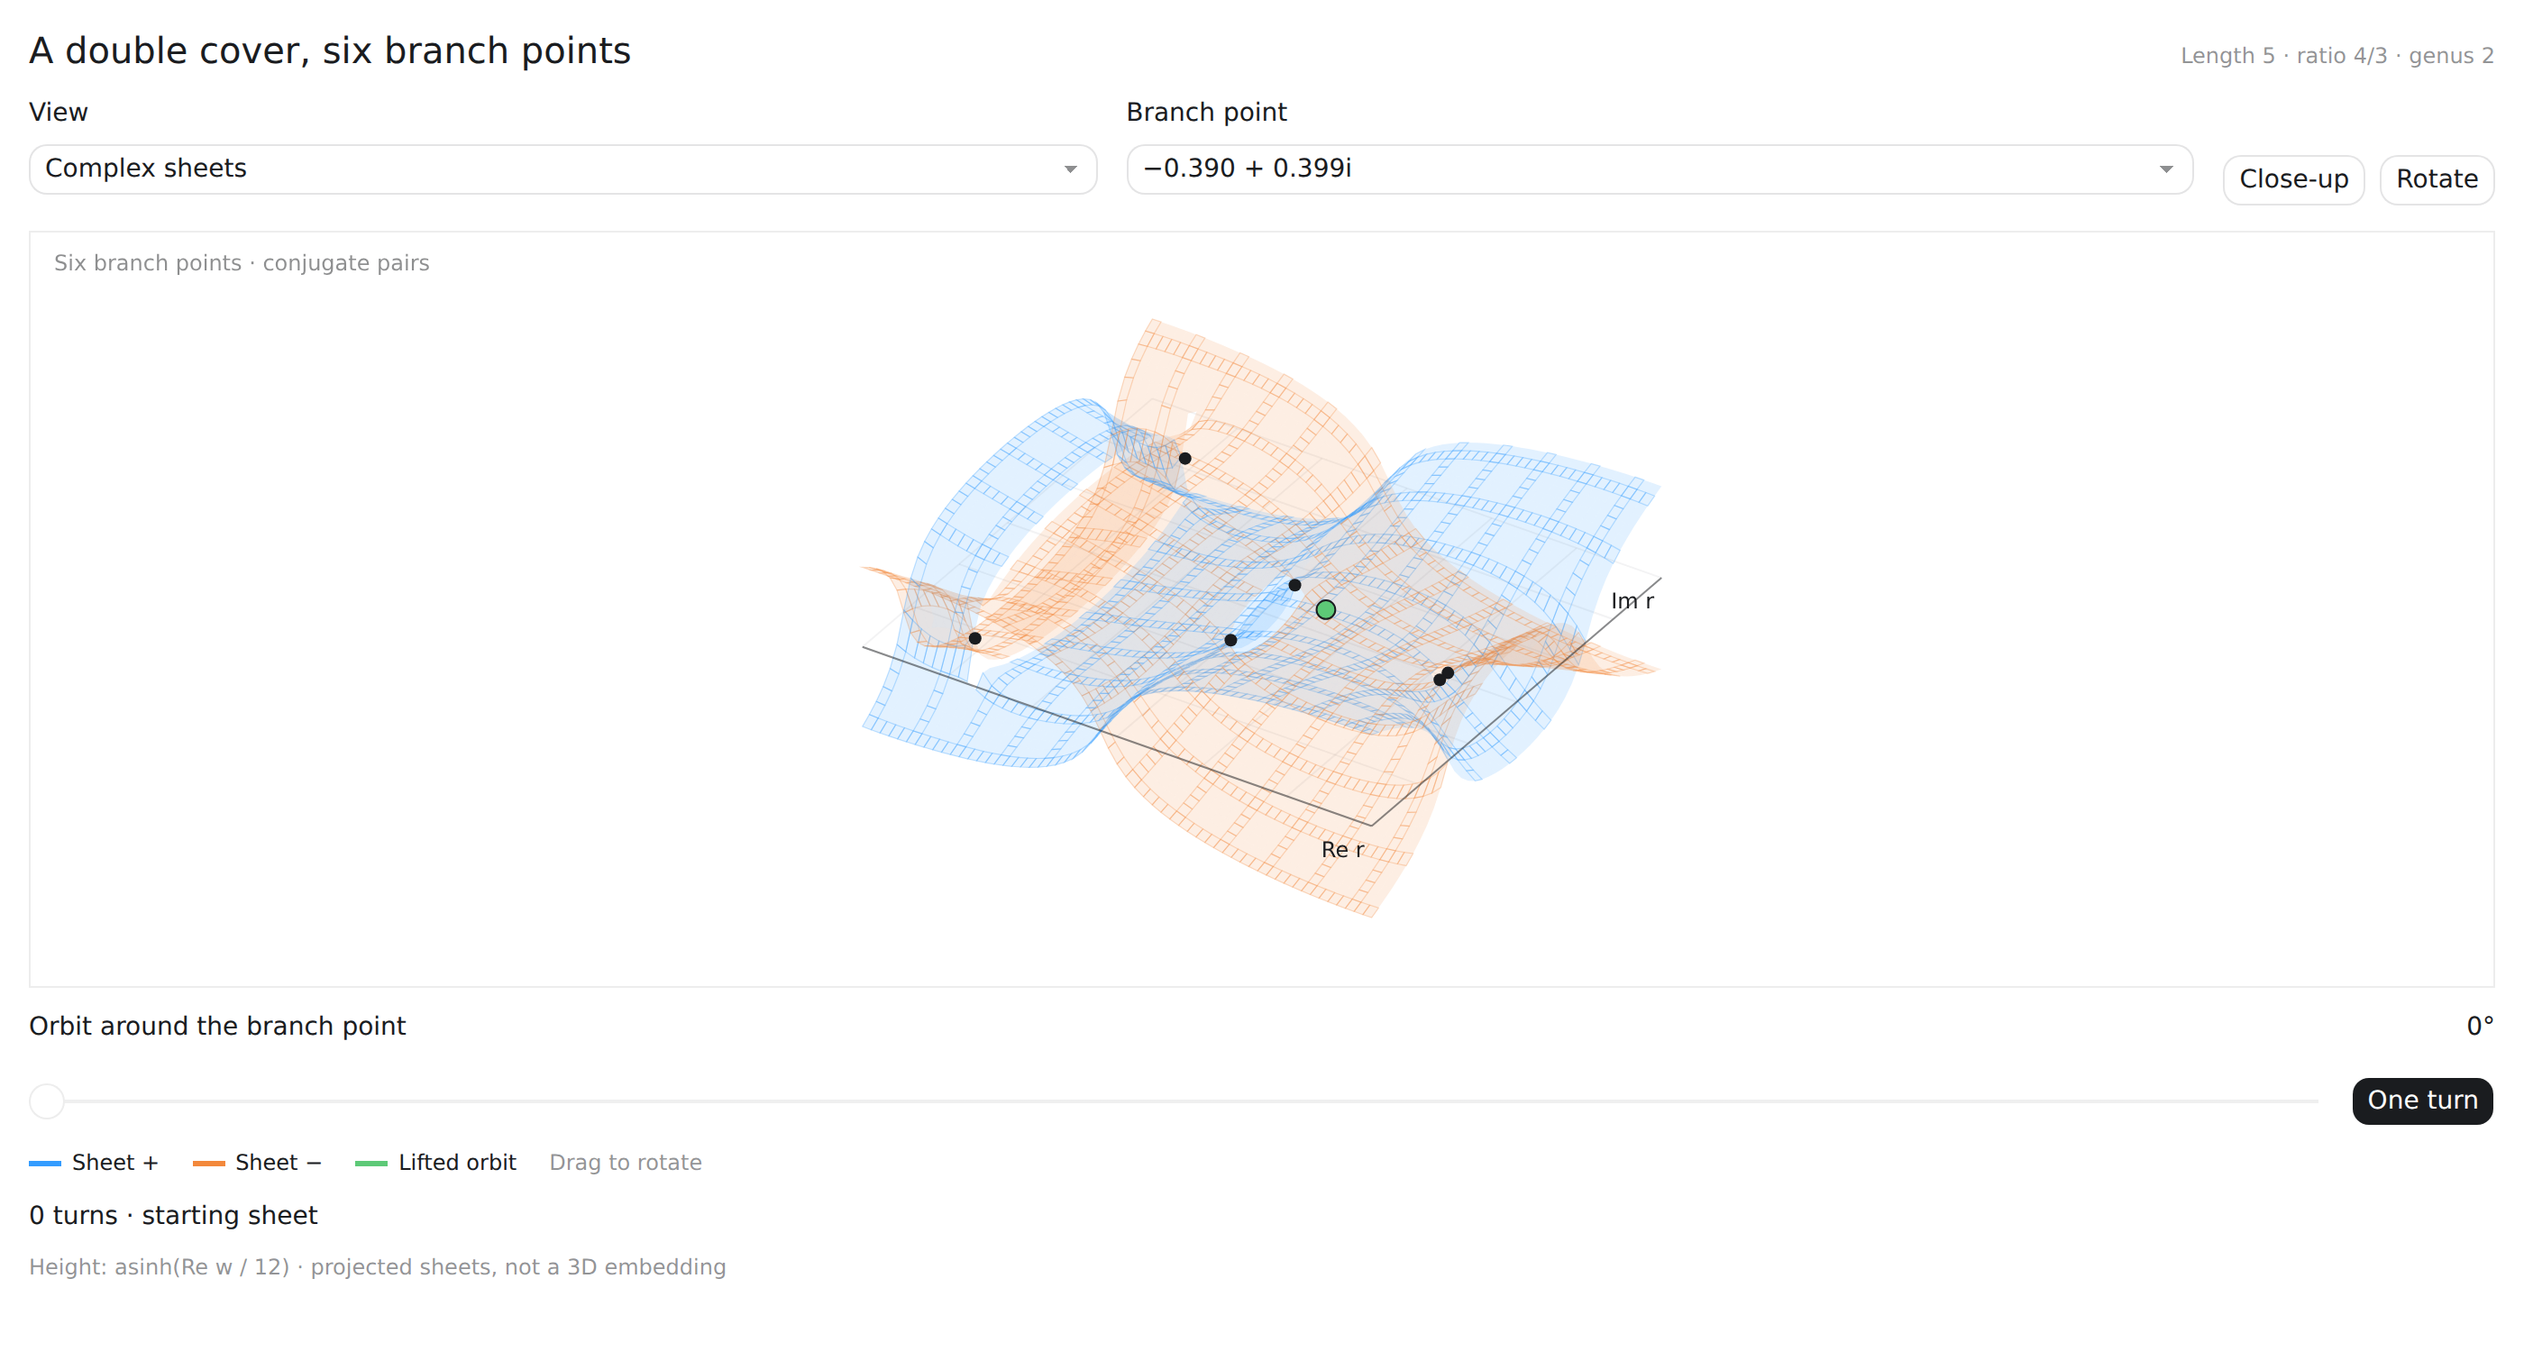
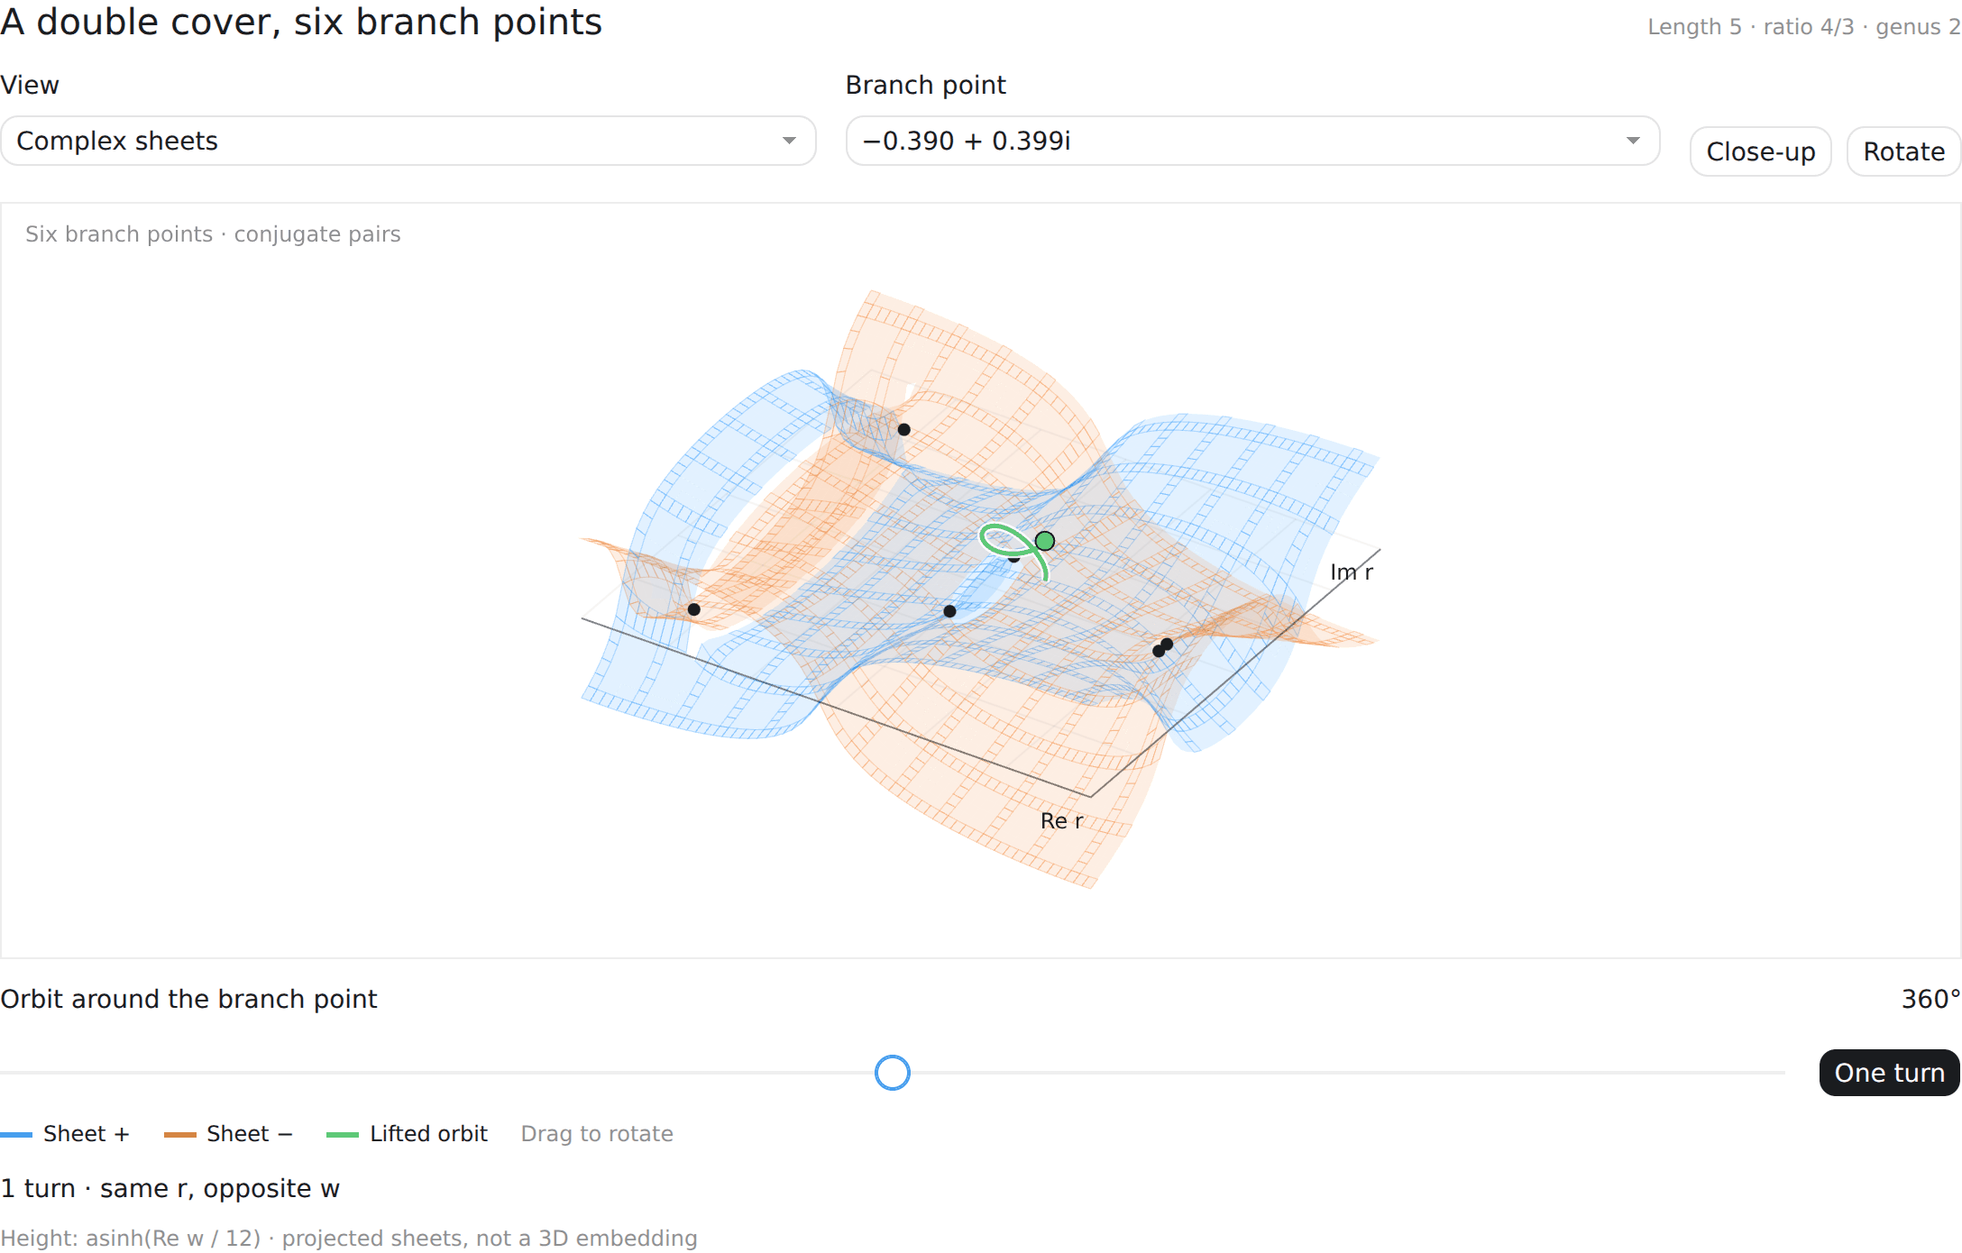
Illustrate all eight geometry views and restore real SVG plots

diff --git a/index.html b/index.html
@@ -1715,15 +1715,15 @@ html&gt;body{padding:0}&lt;/style&gt;
       const lcm=t=&gt;{let k=1n;for(let i=0n;i&lt;5n;i++)k=k*(t+i)/gcd(k,t+i);return k},la=lcm(a),lb=lcm(b);
       return {x2,valid:true,a:Number(a),b:Number(b),lcm:String(la),same:la===lb,disjoint:b-a&gt;=5n};
     }
-    function drawIntervals(d){const s=$(&#x27;ec-intervals&#x27;);s.hidden=!d.valid;if(!d.valid)return;const width=s.clientWidth,h=122,left=64,right=20,min=d.a,max=d.b+4,step=(width-left-right)/(max-min+1),x=v=&gt;left+(v-min)*step;s.setAttribute(&#x27;viewBox&#x27;,`0 0 ${width} ${h}`);s.replaceChildren();
+    function drawIntervals(d){const s=$(&#x27;ec-intervals&#x27;);s.toggleAttribute(&#x27;hidden&#x27;,!d.valid);if(!d.valid)return;const width=s.clientWidth,h=122,left=64,right=20,min=d.a,max=d.b+4,step=(width-left-right)/(max-min+1),x=v=&gt;left+(v-min)*step;s.setAttribute(&#x27;viewBox&#x27;,`0 0 ${width} ${h}`);s.replaceChildren();
       for(const [k,start]of [d.a,d.b].entries()){const yy=20+k*48;s.append(el(&#x27;text&#x27;,{x:left-12,y:yy+22,&#x27;text-anchor&#x27;:&#x27;end&#x27;},k?&#x27;B&#x27;:&#x27;A&#x27;));for(let i=0;i&lt;5;i++){const v=start+i;s.append(el(&#x27;rect&#x27;,{x:x(v)+2,y:yy,width:step-4,height:34,rx:4,fill:k?&#x27;var(--viz-series-2)&#x27;:&#x27;var(--viz-series-1)&#x27;,opacity:.20}),el(&#x27;text&#x27;,{x:x(v)+step/2,y:yy+22,&#x27;text-anchor&#x27;:&#x27;middle&#x27;},String(v)))}}
     }
-    function detail(){if(![&#x27;complex&#x27;,&#x27;real&#x27;,&#x27;lift&#x27;].includes(view)){root.geometryViews?.render();return}const p=points[Number($(&#x27;ec-point&#x27;).value)],sign=Number($(&#x27;ec-sign&#x27;).value);if(view===&#x27;complex&#x27;){const k=angle/360;$(&#x27;ec-detail&#x27;).textContent=angle===360?&#x27;1 turn · same r, opposite w&#x27;:angle===720?&#x27;2 turns · back to the starting point&#x27;:`${k.toFixed(angle%360===0?0:2)} turns · ${angle===0?&#x27;starting sheet&#x27;:&#x27;continuous lift&#x27;}`;$(&#x27;ec-note&#x27;).textContent=&#x27;Height: asinh(Re w / 12) · projected sheets, not a 3D embedding&#x27;;$(&#x27;ec-intervals&#x27;).hidden=true;return}
-      if(view===&#x27;real&#x27;){$(&#x27;ec-detail&#x27;).textContent=`r = ${p[0]} · w = ${sign&lt;0?&#x27;−&#x27;:&#x27;&#x27;}${p[1]}`;$(&#x27;ec-note&#x27;).textContent=&#x27;Known rational points shown; completeness is not proved.&#x27;;$(&#x27;ec-intervals&#x27;).hidden=true;return}
+    function detail(){if(![&#x27;complex&#x27;,&#x27;real&#x27;,&#x27;lift&#x27;].includes(view)){root.geometryViews?.render();return}const p=points[Number($(&#x27;ec-point&#x27;).value)],sign=Number($(&#x27;ec-sign&#x27;).value);if(view===&#x27;complex&#x27;){const k=angle/360;$(&#x27;ec-detail&#x27;).textContent=angle===360?&#x27;1 turn · same r, opposite w&#x27;:angle===720?&#x27;2 turns · back to the starting point&#x27;:`${k.toFixed(angle%360===0?0:2)} turns · ${angle===0?&#x27;starting sheet&#x27;:&#x27;continuous lift&#x27;}`;$(&#x27;ec-note&#x27;).textContent=&#x27;Height: asinh(Re w / 12) · projected sheets, not a 3D embedding&#x27;;$(&#x27;ec-intervals&#x27;).setAttribute(&#x27;hidden&#x27;,&#x27;&#x27;);return}
+      if(view===&#x27;real&#x27;){$(&#x27;ec-detail&#x27;).textContent=`r = ${p[0]} · w = ${sign&lt;0?&#x27;−&#x27;:&#x27;&#x27;}${p[1]}`;$(&#x27;ec-note&#x27;).textContent=&#x27;Known rational points shown; completeness is not proved.&#x27;;$(&#x27;ec-intervals&#x27;).setAttribute(&#x27;hidden&#x27;,&#x27;&#x27;);return}
       const d=liftPoint(Number($(&#x27;ec-point&#x27;).value),sign);$(&#x27;ec-detail&#x27;).textContent=d.valid?`Starts (${d.a}, ${d.b}) · ${d.same?&#x27;same LCM = &#x27;+Number(d.lcm).toLocaleString(&#x27;en-GB&#x27;):&#x27;different LCMs&#x27;}`:`x² = ${qs(d.x2)} · ${d.reason}`;
       $(&#x27;ec-note&#x27;).textContent=d.valid?(d.disjoint?&#x27;Disjoint intervals&#x27;:&#x27;Overlap: &#x27;+Math.max(0,5-(d.b-d.a))+&#x27; shared integers · not a counterexample&#x27;):&#x27;A rational point on this quotient need not lift to an admissible interval pair.&#x27;;drawIntervals(d);
     }
-    function setView(){cancelAnimationFrame(anim);view=$(&#x27;ec-view&#x27;).value;const extra=![&#x27;complex&#x27;,&#x27;real&#x27;,&#x27;lift&#x27;].includes(view);$(&#x27;ec-extra&#x27;).hidden=!extra;root.querySelector(&#x27;.ec-stage&#x27;).hidden=extra;$(&#x27;ec-focus&#x27;).hidden=extra;$(&#x27;ec-intervals&#x27;).hidden=true;canvas.hidden=view!==&#x27;complex&#x27;;svg.hidden=view===&#x27;complex&#x27;;$(&#x27;ec-branch-field&#x27;).hidden=view!==&#x27;complex&#x27;;$(&#x27;ec-point-field&#x27;).hidden=![&#x27;real&#x27;,&#x27;lift&#x27;,&#x27;cover&#x27;,&#x27;region&#x27;].includes(view);$(&#x27;ec-sign-field&#x27;).hidden=![&#x27;real&#x27;,&#x27;lift&#x27;,&#x27;cover&#x27;,&#x27;region&#x27;].includes(view);$(&#x27;ec-complex-controls&#x27;).hidden=view!==&#x27;complex&#x27;;$(&#x27;ec-rotate&#x27;).hidden=view!==&#x27;complex&#x27;;$(&#x27;ec-tip&#x27;).hidden=true;resize();detail()}
+    function setView(){cancelAnimationFrame(anim);view=$(&#x27;ec-view&#x27;).value;const extra=![&#x27;complex&#x27;,&#x27;real&#x27;,&#x27;lift&#x27;].includes(view);$(&#x27;ec-extra&#x27;).hidden=!extra;root.querySelector(&#x27;.ec-stage&#x27;).hidden=extra;$(&#x27;ec-focus&#x27;).hidden=extra;$(&#x27;ec-intervals&#x27;).setAttribute(&#x27;hidden&#x27;,&#x27;&#x27;);canvas.hidden=view!==&#x27;complex&#x27;;svg.toggleAttribute(&#x27;hidden&#x27;,view===&#x27;complex&#x27;);$(&#x27;ec-branch-field&#x27;).hidden=view!==&#x27;complex&#x27;;$(&#x27;ec-point-field&#x27;).hidden=![&#x27;real&#x27;,&#x27;lift&#x27;,&#x27;cover&#x27;,&#x27;region&#x27;].includes(view);$(&#x27;ec-sign-field&#x27;).hidden=![&#x27;real&#x27;,&#x27;lift&#x27;,&#x27;cover&#x27;,&#x27;region&#x27;].includes(view);$(&#x27;ec-complex-controls&#x27;).hidden=view!==&#x27;complex&#x27;;$(&#x27;ec-rotate&#x27;).hidden=view!==&#x27;complex&#x27;;$(&#x27;ec-tip&#x27;).hidden=true;resize();detail()}
     function resize(){palette();W=canvas.clientWidth||root.clientWidth;H=canvas.clientHeight||420;const dpr=Math.min(devicePixelRatio||1,2);canvas.width=W*dpr;canvas.height=H*dpr;ctx.setTransform(dpr,0,0,dpr,0,0);if(view===&#x27;complex&#x27;)drawComplex();else if([&#x27;real&#x27;,&#x27;lift&#x27;].includes(view))drawReal();else root.geometryViews?.render();if(view===&#x27;lift&#x27;)detail()}
     $(&#x27;ec-view&#x27;).addEventListener(&#x27;change&#x27;,setView);
     $(&#x27;ec-branch&#x27;).addEventListener(&#x27;change&#x27;,()=&gt;{which=Number($(&#x27;ec-branch&#x27;).value);angle=0;$(&#x27;ec-phase&#x27;).value=0;$(&#x27;ec-angle&#x27;).textContent=&#x27;0°&#x27;;buildOrbit();buildMesh();drawComplex();detail()});

diff --git a/README.md b/README.md
@@ -1,56 +1,142 @@
 # Erdős 677 Curve Visualisation
 
-Interactive visualisation of the genus-2 curve arising in the investigation of **Erdős Problem 677**, focusing on the length-5, ratio \(4/3\) case.
+Explore the genus-two curve behind the **length-five, product-ratio $4/3$ case** of the repeated-LCM interval problem. Eight interactive views connect its complex sheets, compact geometry and rational points to candidate integer intervals.
 
-### [Open the interactive visualisation →](https://kddavis91.github.io/erdos677-curve-visualisation/)
+**[Open the interactive visualisation →](https://kddavis91.github.io/erdos677-curve-visualisation/)**
 
-<p align="center">
-  <img src="assets/complex-sheets.png" alt="Complex double-cover visualisation" width="100%">
-</p>
+![Complex double cover after one turn around a branch point](assets/complex-sheets.png)
 
-## What it shows
+*One turn returns to the same base coordinate on the opposite sheet. A second turn closes the lifted path.*
 
-The visualisation provides three related views of the curve:
+## Choose a view
 
-- **Complex sheets** — a rotatable projection of the two-sheeted cover, showing the six branch points and the behaviour of a lifted orbit around a selected branch point.
-- **Real curve** — the real locus of the genus-2 curve together with the known rational points used in the investigation.
-- **Lift to intervals** — maps a selected rational point back to the corresponding pair of length-5 integer intervals, making the connection to the original Erdős problem explicit.
+| View | Explore |
+| --- | --- |
+| [Complex sheets](#complex-sheets) | Six branch points, a rotatable projection and a continuously lifted orbit. |
+| [Real curve](#real-curve) | The real locus and the supplied rational points. |
+| [Lift to intervals](#lift-to-intervals) | Exact integer lifts, interval starts, LCMs and overlap. |
+| [Branch cuts and handles](#branch-cuts-and-handles) | How two cut spheres glue into a genus-two surface. |
+| [Points at infinity](#points-at-infinity) | A reciprocal chart and the connections between the real ends. |
+| [Custom loops](#custom-loops) | Draw loops, count winding and follow sheet switching. |
+| [Full lift](#full-lift) | Both $w$ sheets and both square-root lifts, including the exceptional chart. |
+| [Admissible interval region](#admissible-interval-region) | Real lifts, integer points and the positive disjointness region. |
 
-The branch-point view also allows a loop to be followed continuously around a branch point. After one turn the lift moves to the opposite sheet; after two turns it returns to its starting point.
+## The curve and its coordinates
 
-## Real locus
+The genus-two quotient is
 
-<p align="center">
-  <img src="assets/real-curve.png" alt="Real locus of the Erdős 677 genus-2 curve" width="100%">
-</p>
+$$
+w^2 = h(r) = 81r^6 + 192r^5 - 600r^3 + 192r + 144.
+$$
 
-Known rational points are plotted on the two real branches. Their presence is established; the visualisation does **not** claim that the displayed set is complete.
+For intervals starting at $a$ and $b$, use centred coordinates $x=a+2$ and $y=b+2$. The product of five consecutive integers is
 
-## Lifting back to the interval problem
+$$
+P_5(x)=x(x^2-1)(x^2-4).
+$$
 
-<p align="center">
-  <img src="assets/lift-to-intervals.png" alt="Lifting a rational point to two integer intervals" width="100%">
-</p>
+This case studies $P_5(y)=\tfrac43P_5(x)$. The curve parameter **$r=y/x$ varies**; it is distinct from the fixed product ratio $4/3$.
 
-For a selected rational point, the final view reconstructs the corresponding interval starts and compares the two length-5 blocks directly.
+Writing $z=x^2$ gives
 
-This makes it possible to move between the algebraic curve and the original combinatorial formulation rather than treating the curve as an isolated object.
+$$
+(3r^5-4)z^2-5(3r^3-4)z+12r-16=0,
+$$
 
-## Interactive controls
+whose discriminant is $h(r)$. This supplies the bridge from the double cover to interval candidates.
 
-The browser version lets you:
+## Complex sheets
 
-- rotate and inspect the complex-sheet projection
-- select each conjugate pair of branch points
-- follow a lifted orbit through one or two complete turns
-- inspect known rational coordinates on the real curve
-- switch the sign of \(w\)
-- lift rational points back to candidate integer intervals
+Rotate the two projected sheets, select a branch point and use **One turn** or the orbit slider to follow its lifted path. **Close-up** reveals the local behaviour near the selected branch point.
 
-## Implementation
+The six branch points occur in three conjugate pairs. The displayed height is $\operatorname{asinh}(\operatorname{Re}w/12)$; the image is a projection of the complex curve.
 
-The visualisation is a self-contained browser application in [`index.html`](index.html). No build process or external data files are required.
+## Real curve
 
----
+![Real curve with supplied rational points and the selected coordinate](assets/real-curve.png)
 
-This repository contains the visualisation only. The wider computational and mathematical investigation of Erdős Problem 677 is maintained separately.
+Inspect both real branches, choose a rational coordinate, switch the sign of $w$, or select a marker directly. The vertical scale uses $\operatorname{asinh}(w/12)$ to keep large values visible.
+
+The markers are supplied rational points. The visualisation does not establish that this set is complete.
+
+## Lift to intervals
+
+![The exact lift to intervals starting at 15 and 16, with four shared integers](assets/lift-to-intervals.png)
+
+For a selected $(r,w)$, the app evaluates
+
+$$
+x^2=\frac{5(3r^3-4)+w}{2(3r^5-4)},\qquad y=rx.
+$$
+
+It checks integer coordinates and reconstructs $a=x-2$, $b=y-2$, then computes the two LCMs with exact integer arithmetic.
+
+For example, $r=18/17$ on the negative $w$ sheet gives $(x,y)=(17,18)$ and starts $(15,16)$. Both LCMs are **232,560**, but the intervals share four integers. This example shows why an integer lift and equal LCMs still need the disjointness condition.
+
+## Branch cuts and handles
+
+![Two spheres cut along three slits and glued crosswise to make two handles](assets/branch-cuts-and-handles.png)
+
+Move the **Gluing** slider or animate the matching of opposite banks. The three slits connect the two sheets into a surface with two handles:
+
+$$
+\chi=2\cdot2-6=-2=2-2g,\qquad g=2.
+$$
+
+The handle shape is a topological schematic. Its geometry and the chosen cuts are illustrative.
+
+## Points at infinity
+
+![Reciprocal chart showing the two smooth points above infinity](assets/points-at-infinity.png)
+
+The chart $t=1/r$, $v=w/r^3$ makes infinity finite:
+
+$$
+v^2=81+192t-600t^3+192t^5+144t^6.
+$$
+
+At $t=0$ there are two distinct smooth rational points, $v=\pm9$. Move through zero to see how the affine ends connect. Since $r^3$ changes sign, a positive-$w$ end connects to a negative-$w$ end; together these connections form one compact real component.
+
+## Custom loops
+
+![A drawn loop around one branch point and its non-closed lift in the complex w-plane](assets/custom-loops.png)
+
+Choose a preset around **one branch point**, **a conjugate pair** or **all six**, or draw a loop directly in the $r$-plane. Releasing the pointer closes a drawn loop. Use **Trace lift** or the position slider to follow $w$ continuously.
+
+The winding readout explains the outcome: an odd total winding swaps sheets, while an even total returns to the starting sheet. The lower plot shows the lifted path in the complex $w$-plane with compressed axes. Loops too close to a branch point are rejected.
+
+## Full lift
+
+![Four lift cards distinguishing irrational real lifts from the exact integral lifts](assets/full-lift.png)
+
+Over a generic $r$, choose $w=\pm\sqrt{h(r)}$ and then $x=\pm\sqrt{z}$. The four cards distinguish real, non-real, rational and integral lifts. For supplied rational coordinates, the square-root checks use exact fractions.
+
+Explore other real coordinates numerically, or choose **Exceptional chart** at $3r^5-4=0$. One branch has a finite $z$ limit; the other is described by $q=1/z=0$. The reciprocal equation is
+
+$$
+(12r-16)q^2-5(3r^3-4)q+3r^5-4=0.
+$$
+
+Numerical coordinates are displayed as approximations and do not certify rationality.
+
+## Admissible interval region
+
+![Real lifts and the shaded disjoint interval region, with the point 17,18 below its boundary](assets/admissible-interval-region.png)
+
+The $(x,y)$ plot shades the necessary region
+
+$$
+x\ge3,\qquad y-x\ge5,
+$$
+
+which translates to positive starts and disjoint length-five intervals. Switch the plot range or the integer lattice, and use the exact-point table below the plot to inspect individual lifts.
+
+The selected point $(17,18)$ sits below the disjointness boundary. An integer point in the shaded region would still require the exact LCM check.
+
+## Use and scope
+
+Open the [live page](https://kddavis91.github.io/erdos677-curve-visualisation/) and select a view from the menu. The page supports desktop and phone layouts, light and dark themes, and reduced-motion preferences. Preset buttons provide an alternative to drawing custom loops.
+
+The application is contained in [`index.html`](index.html). It needs no build step or external data files. [`scripts/capture-readme.cjs`](scripts/capture-readme.cjs) can reproduce the eight cropped README images at twice the displayed resolution.
+
+This repository focuses on the geometry of one reduction case. The wider investigation remains separate, and the full Erdős 677 problem remains unresolved in that work.
